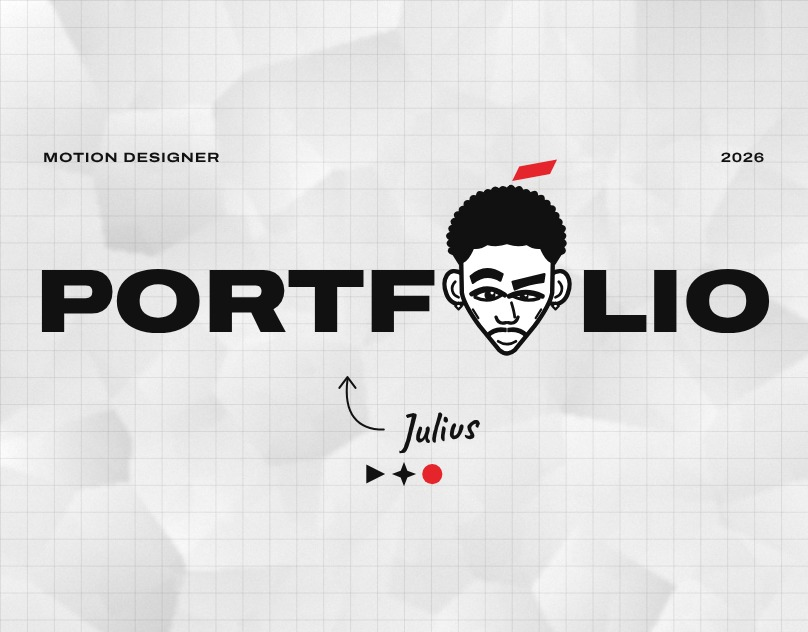
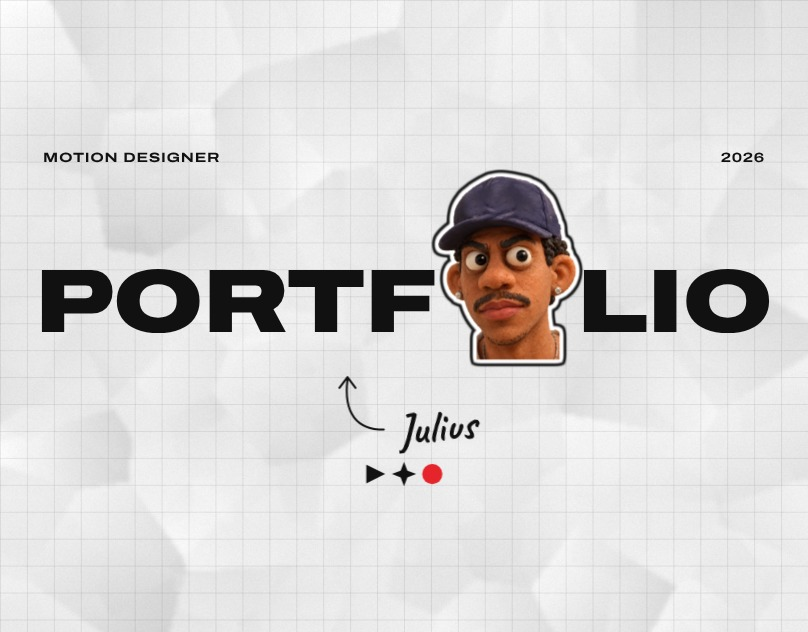
Capa nova (Julius em massinha) também no link do WhatsApp e no Behance (00 e 01)
Claude-Session: https://claude.ai/code/session_015Ju4ASLAxqBrwYXpVU3nxF

Changed region(s): [[0.526, 0.2405, 0.7426, 0.6013], [0.495, 0.6614, 0.5879, 0.7215], [0.4022, 0.6013, 0.4332, 0.6313]]

diff --git a/index.html b/index.html
@@ -8,7 +8,7 @@
 <meta name="description" content="Portfólio de Luiz Guilherme (Julius), motion designer.">
 <meta property="og:title" content="Portfólio Julius — Motion Designer">
 <meta property="og:description" content="Portfólio de motion graphics do Julius: App Teaser, Motion Sports, Motion Service e Mixed Media.">
-<meta property="og:image" content="https://luizlaurindo46-ctrl.github.io/Julius-/img/capa-do-projeto.jpg">
+<meta property="og:image" content="https://luizlaurindo46-ctrl.github.io/Julius-/img/capa-do-projeto.jpg?v=2">
 <link rel="preconnect" href="https://fonts.googleapis.com">
 <link rel="stylesheet" href="https://fonts.googleapis.com/css2?family=Archivo:wdth,wght@125,700;125,900&amp;family=Caveat:wght@700&amp;family=Inter:wght@400;700&amp;display=swap">
 <style>
